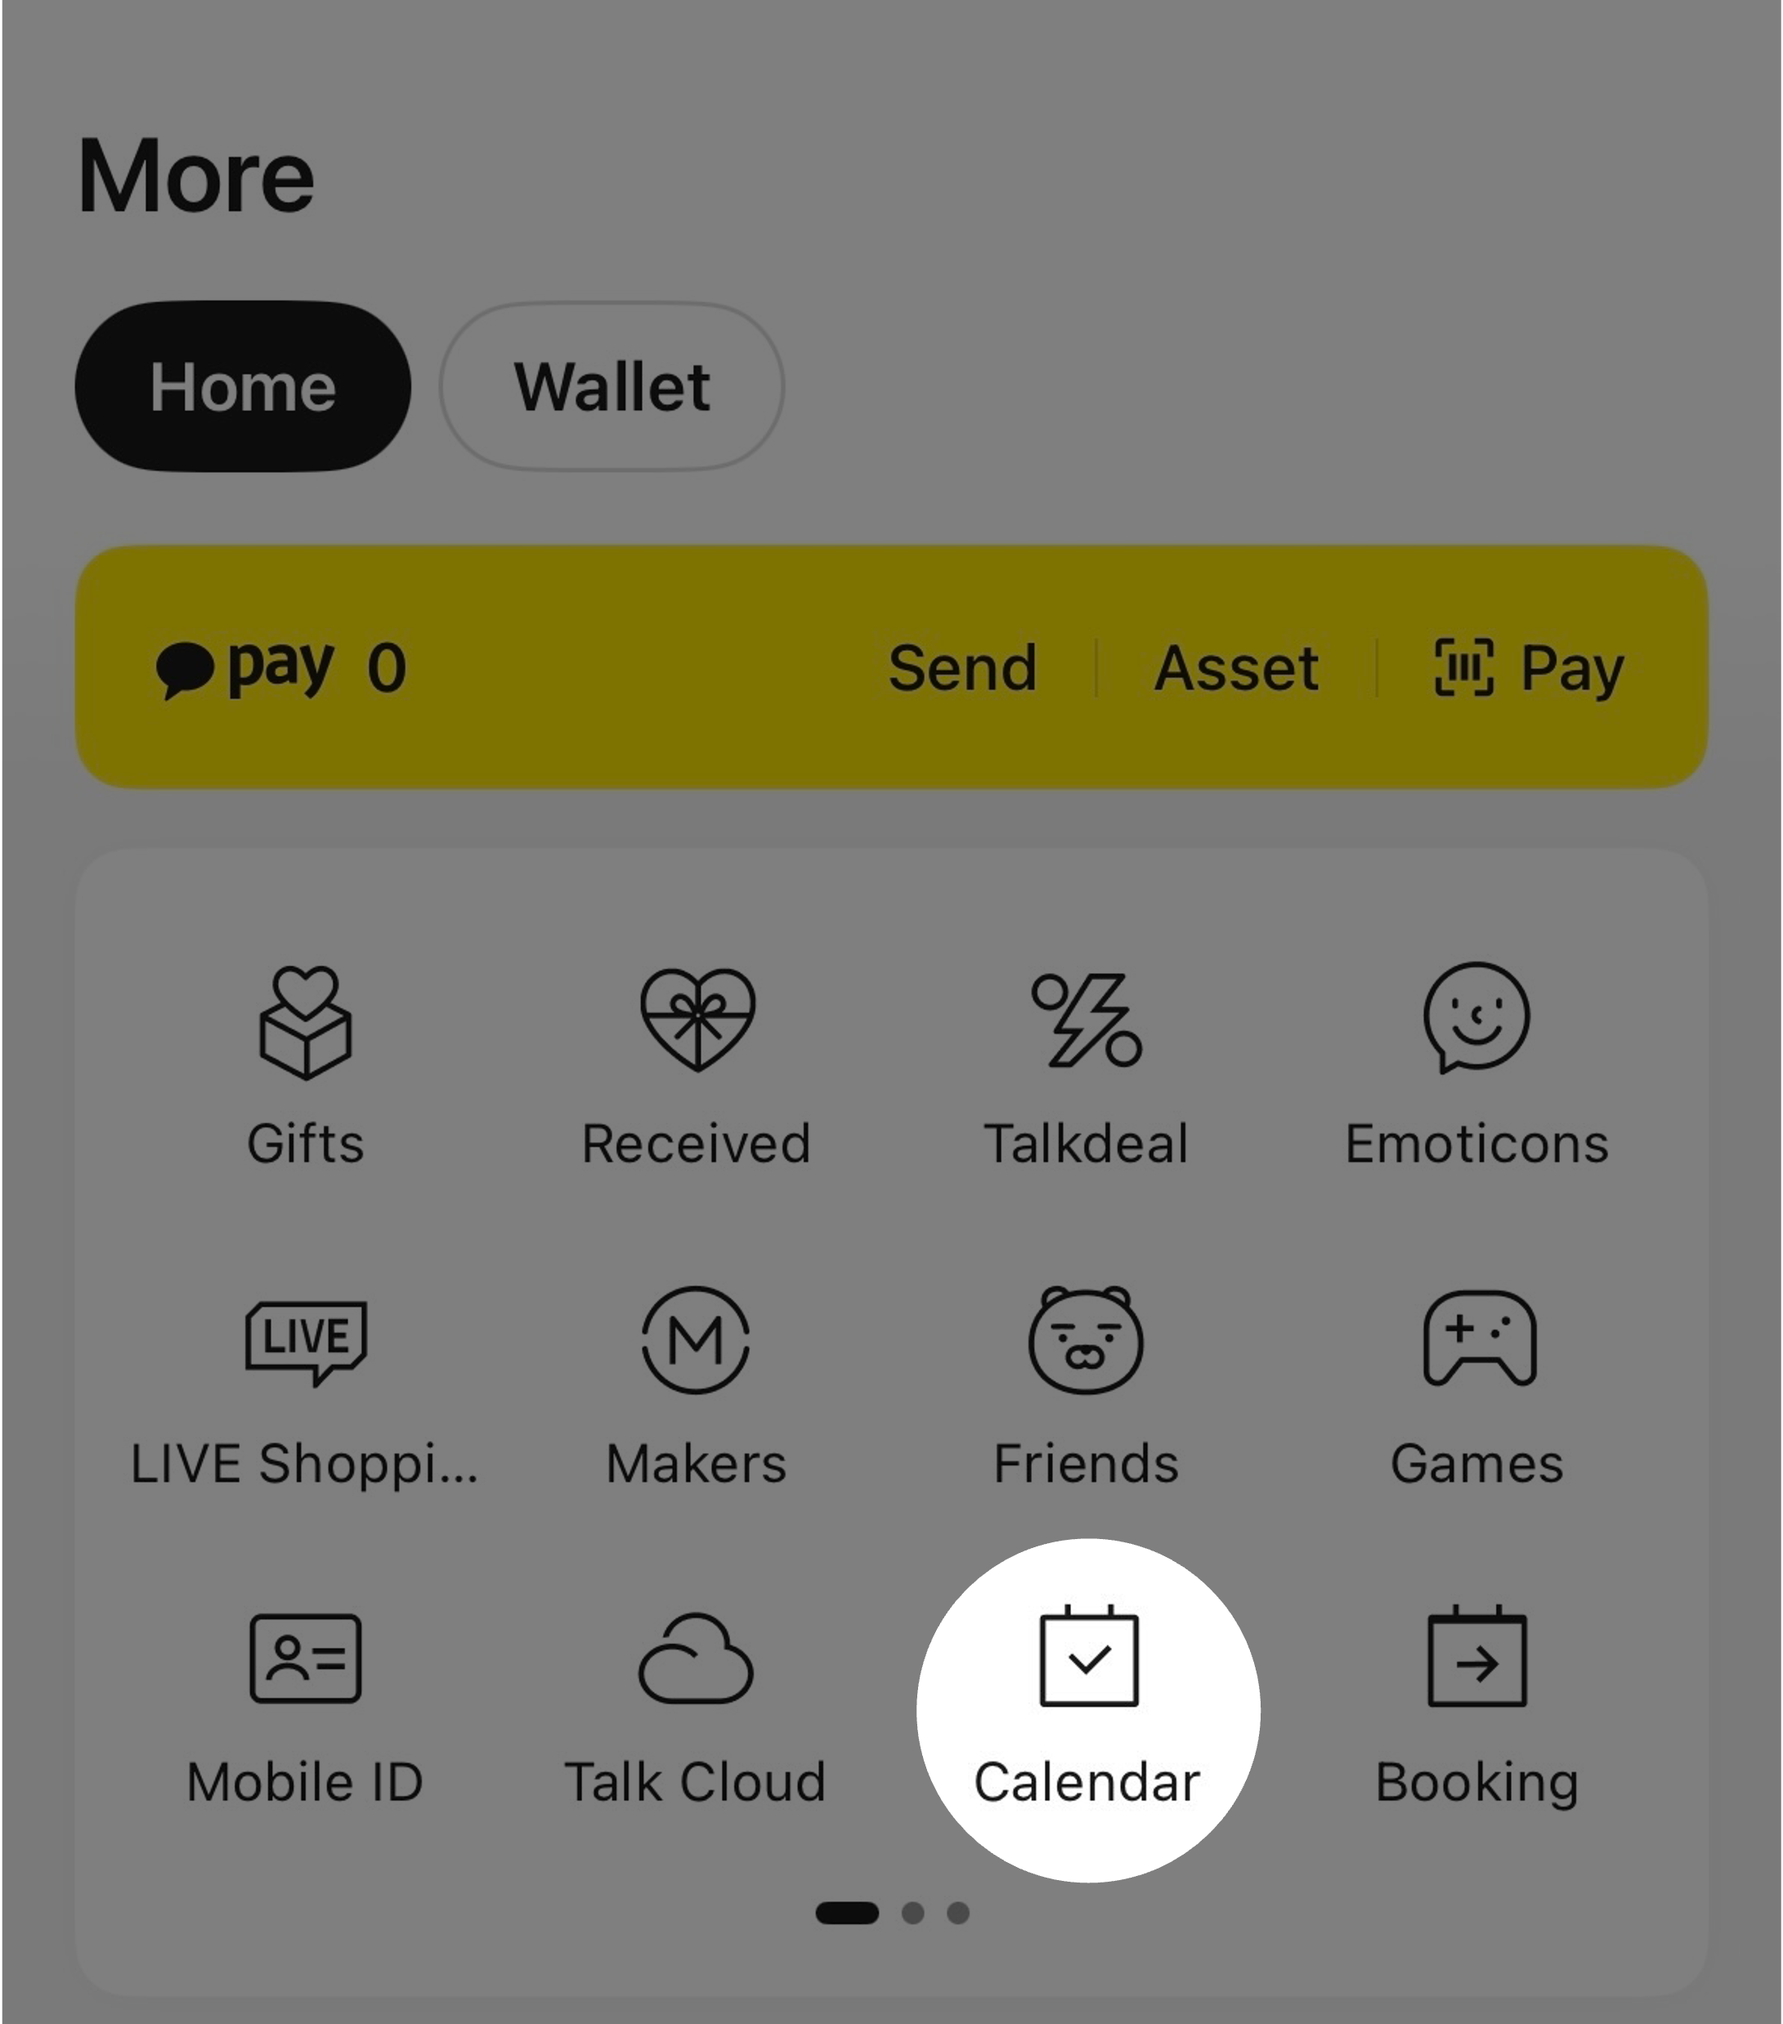
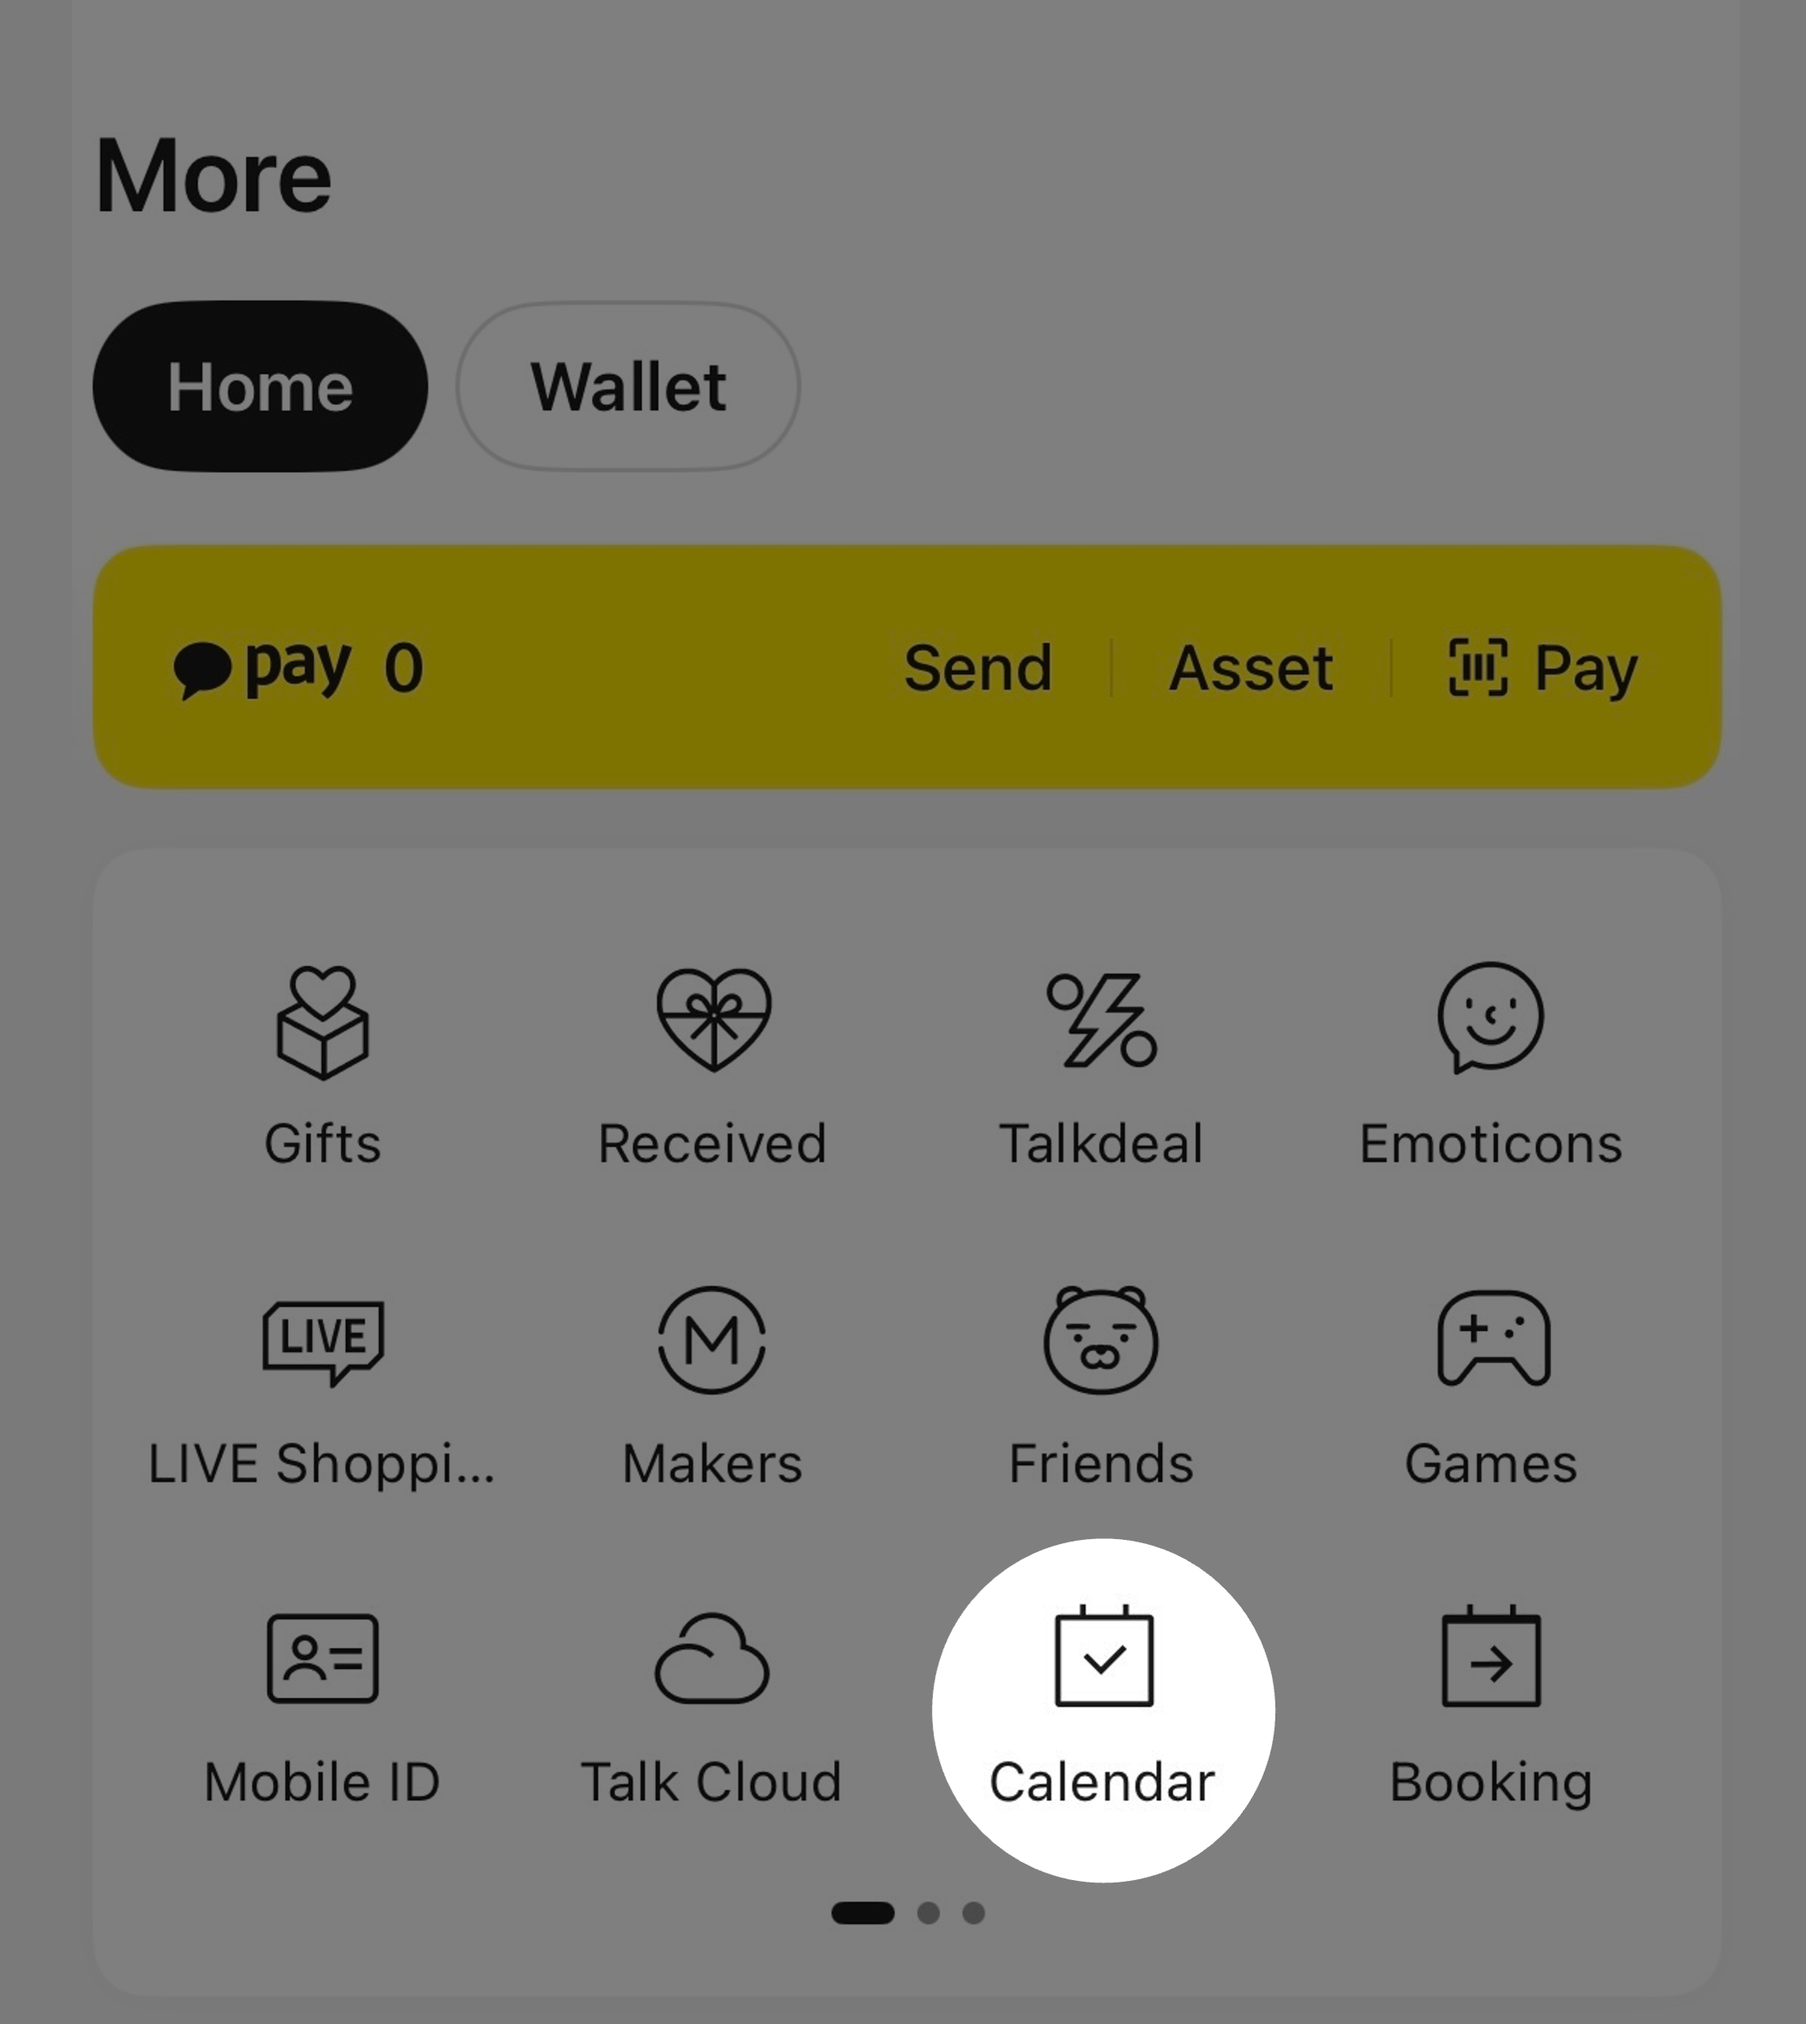
[Fix] 톡캘린더 일정 생성 성공 팝업 이미지 오류 수정 및 개행 추가

diff --git a/src/features/event/components/detail/shared/ConfirmedTime/ConfirmedTime.test.tsx b/src/features/event/components/detail/shared/ConfirmedTime/ConfirmedTime.test.tsx
@@ -1,6 +1,6 @@
 import { HttpResponse, http } from 'msw';
 import { NextIntlClientProvider } from 'next-intl';
-import { Mock, expect, it, vi } from 'vitest';
+import { Mock, describe, expect, it, vi } from 'vitest';
 
 import ConfirmedTime from './ConfirmedTime';
 import { createConfirmedEventResponse } from './ConfirmedTime.mock';
@@ -21,96 +21,102 @@ const eventId = faker.string.uuid();
 (useParams as Mock).mockReturnValue({ id: eventId });
 (useProgressRouter as Mock).mockReturnValue({ push: vi.fn() });
 
-it('날짜 이벤트이고 시작 날짜와 종료 날짜가 같을 때, 시작 날짜와 시작 시간 및 종료 시간이 있는 형식으로 확정 시간이 표시된다.', async () => {
-  server.use(
-    http.get(`${SERVER_API_URL}/events/:id`, () => {
-      const response = createConfirmedEventResponse({
-        type: 'DATE',
-        oneday: true,
-      });
-      return HttpResponse.json(response);
-    }),
-  );
-  render(
-    <NextIntlClientProvider locale="ko" messages={messages}>
-      <QueryClientProvider client={new QueryClient()}>
-        <ConfirmedTime />
-      </QueryClientProvider>
-    </NextIntlClientProvider>,
-  );
-  const timeSummaryButton = await screen.findByText(
-    '02/22 (Sun) 07:00 - 23:00',
-  );
+describe('ConfirmedTime', () => {
+  it('날짜 이벤트이고 시작 날짜와 종료 날짜가 같을 때, 시작 날짜와 시작 시간 및 종료 시간이 있는 형식으로 확정 시간이 표시된다.', async () => {
+    server.use(
+      http.get(`${SERVER_API_URL}/events/:id`, () => {
+        return HttpResponse.json(
+          createConfirmedEventResponse({
+            type: 'DATE',
+            oneday: true,
+          }),
+        );
+      }),
+    );
+    render(
+      <NextIntlClientProvider locale="ko" messages={messages}>
+        <QueryClientProvider client={new QueryClient()}>
+          <ConfirmedTime />
+        </QueryClientProvider>
+      </NextIntlClientProvider>,
+    );
+    const timeSummaryButton = await screen.findByText(
+      '02/22 (Sun) 07:00 - 23:00',
+    );
 
-  expect(timeSummaryButton).toBeInTheDocument();
-});
+    expect(timeSummaryButton).toBeInTheDocument();
+  });
 
-it('날짜 이벤트이고 시작 날짜와 종료 날짜가 다를 때, 시작 날짜와 종료 날짜 모두 있는 형식으로 확정 시간이 표시된다.', async () => {
-  server.use(
-    http.get(`${SERVER_API_URL}/events/:id`, () => {
-      const response = createConfirmedEventResponse({
-        type: 'DATE',
-        oneday: false,
-      });
-      return HttpResponse.json(response);
-    }),
-  );
-  render(
-    <NextIntlClientProvider locale="ko" messages={messages}>
-      <QueryClientProvider client={new QueryClient()}>
-        <ConfirmedTime />
-      </QueryClientProvider>
-    </NextIntlClientProvider>,
-  );
-  const timeSummaryButton = await screen.findByText(
-    '02/22(Sun) 07:00 - 02/23(Mon) 23:00',
-  );
+  it('날짜 이벤트이고 시작 날짜와 종료 날짜가 다를 때, 시작 날짜와 종료 날짜 모두 있는 형식으로 확정 시간이 표시된다.', async () => {
+    server.use(
+      http.get(`${SERVER_API_URL}/events/:id`, () => {
+        return HttpResponse.json(
+          createConfirmedEventResponse({
+            type: 'DATE',
+            oneday: false,
+          }),
+        );
+      }),
+    );
+    render(
+      <NextIntlClientProvider locale="ko" messages={messages}>
+        <QueryClientProvider client={new QueryClient()}>
+          <ConfirmedTime />
+        </QueryClientProvider>
+      </NextIntlClientProvider>,
+    );
+    const timeSummaryButton = await screen.findByText(
+      '02/22(Sun) 07:00 - 02/23(Mon) 23:00',
+    );
 
-  expect(timeSummaryButton).toBeInTheDocument();
-});
+    expect(timeSummaryButton).toBeInTheDocument();
+  });
 
-it('요일 이벤트이고 시작 요일과 종료 요일이 같을 때, 시작 요일과 종료 요일이 모두 있는 형식으로 확정 시간이 표시된다.', async () => {
-  server.use(
-    http.get(`${SERVER_API_URL}/events/:id`, () => {
-      const response = createConfirmedEventResponse({
-        type: 'DAY',
-        oneday: true,
-      });
-      return HttpResponse.json(response);
-    }),
-  );
-  render(
-    <NextIntlClientProvider locale="ko" messages={messages}>
-      <QueryClientProvider client={new QueryClient()}>
-        <ConfirmedTime />
-      </QueryClientProvider>
-    </NextIntlClientProvider>,
-  );
-  const timeSummaryButton = await screen.findByText('Monday 07:00 - 23:00');
+  it('요일 이벤트이고 시작 요일과 종료 요일이 같을 때, 시작 요일과 종료 요일이 모두 있는 형식으로 확정 시간이 표시된다.', async () => {
+    server.use(
+      http.get(`${SERVER_API_URL}/events/:id`, () => {
+        return HttpResponse.json(
+          createConfirmedEventResponse({
+            type: 'DAY',
+            oneday: true,
+          }),
+        );
+      }),
+    );
+    render(
+      <NextIntlClientProvider locale="ko" messages={messages}>
+        <QueryClientProvider client={new QueryClient()}>
+          <ConfirmedTime />
+        </QueryClientProvider>
+      </NextIntlClientProvider>,
+    );
+    const timeSummaryButton = await screen.findByText('Monday 07:00 - 23:00');
 
-  expect(timeSummaryButton).toBeInTheDocument();
-});
+    expect(timeSummaryButton).toBeInTheDocument();
+  });
 
-it('요일 이벤트이고 시작 요일과 종료 요일이 다를 때, 시작 요일과 시작 시간과 종료 시간이 있는 형식으로 확정 시간이 표시된다.', async () => {
-  server.use(
-    http.get(`${SERVER_API_URL}/events/:id`, () => {
-      const response = createConfirmedEventResponse({
-        type: 'DAY',
-        oneday: false,
-      });
-      return HttpResponse.json(response);
-    }),
-  );
-  render(
-    <NextIntlClientProvider locale="ko" messages={messages}>
-      <QueryClientProvider client={new QueryClient()}>
-        <ConfirmedTime />
-      </QueryClientProvider>
-    </NextIntlClientProvider>,
-  );
-  const timeSummaryButton = await screen.findByText(
-    'Monday 07:00 - Friday 23:00',
-  );
+  it('요일 이벤트이고 시작 요일과 종료 요일이 다를 때, 시작 요일과 시작 시간과 종료 시간이 있는 형식으로 확정 시간이 표시된다.', async () => {
+    server.use(
+      http.get(`${SERVER_API_URL}/events/:id`, () => {
+        return HttpResponse.json(
+          createConfirmedEventResponse({
+            type: 'DAY',
+            oneday: false,
+          }),
+        );
+      }),
+    );
+    render(
+      <NextIntlClientProvider locale="ko" messages={messages}>
+        <QueryClientProvider client={new QueryClient()}>
+          <ConfirmedTime />
+        </QueryClientProvider>
+      </NextIntlClientProvider>,
+    );
+    const timeSummaryButton = await screen.findByText(
+      'Monday 07:00 - Friday 23:00',
+    );
 
-  expect(timeSummaryButton).toBeInTheDocument();
+    expect(timeSummaryButton).toBeInTheDocument();
+  });
 });

diff --git a/src/features/event/components/detail/TalkCalendarModalGroup/TalkCalendarSuccessModal/ModalImage/ModalImage.tsx b/src/features/event/components/detail/TalkCalendarModalGroup/TalkCalendarSuccessModal/ModalImage/ModalImage.tsx
@@ -7,11 +7,13 @@ export default function ModalImage() {
   const locale = useLocale();
 
   return (
-    <Image
-      src={`/images/kakao/talk-calendar-guide-${locale}.png`}
-      width={360}
-      height={384}
-      alt={t('imageAlt')}
-    />
+    <div>
+      <Image
+        src={`/images/kakao/talk-calendar-guide-${locale}.png`}
+        width={360}
+        height={384}
+        alt={t('imageAlt')}
+      />
+    </div>
   );
 }

diff --git a/src/features/event/components/detail/TalkCalendarModalGroup/TalkCalendarSuccessModal/ModalTextContent/ModalTextContent.tsx b/src/features/event/components/detail/TalkCalendarModalGroup/TalkCalendarSuccessModal/ModalTextContent/ModalTextContent.tsx
@@ -8,6 +8,7 @@ export default function ModalTextContent() {
       <h2 className="title-sm-300">{t('title')}</h2>
       <p className="text-md-100">
         {t.rich('description', {
+          br: () => <br />,
           bold: (chunks) => (
             <strong className="text-primary-50 text-md-300">{chunks}</strong>
           ),
